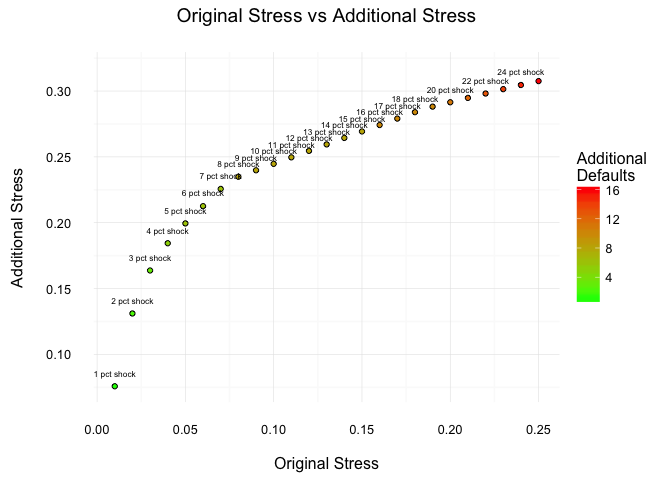
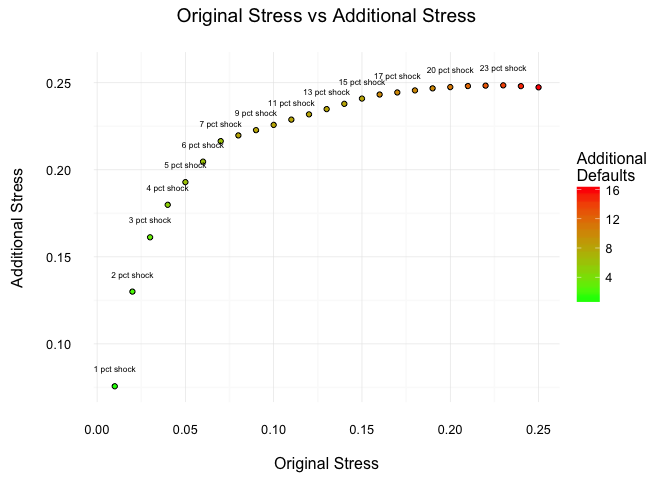
updates readme references

diff --git a/README.md b/README.md
@@ -276,16 +276,16 @@ summary(contdr)
 #> 
 #> Simulation summary (showing 10 of 125 -- decreasing order of additional stress):
 #>  Scenario Original Stress Additional Stress Original Losses Additional Losses Additional Defaults
-#>       b55          0.1102             0.280            58.4             235.8                  18
-#>       b28          0.0638             0.182            63.5              99.3                   9
-#>       b84          0.0236             0.117             7.6              65.7                   3
-#>       b69          0.0133             0.114            13.0              36.6                   3
-#>       b75          0.0099             0.113             9.6              30.5                   3
-#>       b33          0.0243             0.088            27.4              33.6                   3
-#>      b120          0.0099             0.077             8.4              18.1                   3
-#>       b77          0.0067             0.065             9.4               8.9                   2
-#>       b74          0.0161             0.064            14.4              27.9                   4
-#>      b101          0.0070             0.060             9.3              17.1                   3
+#>       b55          0.1102             0.280            58.4             235.8                  17
+#>       b28          0.0638             0.182            63.5              99.3                   8
+#>       b84          0.0236             0.117             7.6              65.7                   2
+#>       b69          0.0133             0.114            13.0              36.6                   2
+#>       b75          0.0099             0.113             9.6              30.5                   2
+#>       b33          0.0243             0.088            27.4              33.6                   2
+#>      b120          0.0099             0.077             8.4              18.1                   2
+#>       b77          0.0067             0.065             9.4               8.9                   1
+#>       b74          0.0161             0.064            14.4              27.9                   3
+#>      b101          0.0070             0.060             9.3              17.1                   2
 ```
 
 What do these results mean?
@@ -321,16 +321,16 @@ summary(contthr)
 #> 
 #> Simulation summary (showing 10 of 125 -- decreasing order of additional stress):
 #>  Scenario Original Stress Additional Stress Original Losses Additional Losses Additional Defaults
-#>       b55          0.1102             0.273            58.4             221.1                  17
-#>       b28          0.0638             0.167            63.5              88.4                   8
-#>       b84          0.0236             0.098             7.6              62.0                   3
-#>       b69          0.0133             0.096            13.0              34.1                   3
-#>       b75          0.0099             0.095             9.6              28.1                   3
-#>      b120          0.0099             0.075             8.4              17.0                   3
-#>       b27          0.0173             0.059            20.5              18.8                   4
-#>       b74          0.0161             0.056            14.4              26.1                   4
-#>      b101          0.0070             0.052             9.3              15.6                   3
-#>       b80          0.0084             0.051             9.2               7.5                   2
+#>       b55          0.1102             0.273            58.4             221.1                  16
+#>       b28          0.0638             0.167            63.5              88.4                   7
+#>       b84          0.0236             0.098             7.6              62.0                   2
+#>       b69          0.0133             0.096            13.0              34.1                   2
+#>       b75          0.0099             0.095             9.6              28.1                   2
+#>      b120          0.0099             0.075             8.4              17.0                   2
+#>       b27          0.0173             0.059            20.5              18.8                   3
+#>       b74          0.0161             0.056            14.4              26.1                   3
+#>      b101          0.0070             0.052             9.3              15.6                   2
+#>       b80          0.0084             0.051             9.2               7.5                   1
 ```
 
 Let's save the results in our `sim_data` along with the other metrics:
@@ -352,10 +352,10 @@ head(sim_data)
 #> 5   b5 0.65294261   0.9153901 4.446595  8.673730      2  14 6.609864e-05 0.003889006  2.945919    0  0.00000
 #> 6   b6 0.60766835   0.3007373 2.252369  4.708805      2   2 6.556680e-05 0.001567357  1.287698    0  0.00000
 #>       DebtRank      cascade
-#> 1 0.0278774515 0.0187702836
+#> 1 0.0278774471 0.0187702836
 #> 2 0.0015547276 0.0014304155
 #> 3 0.0005985364 0.0005137390
-#> 4 0.0074578827 0.0023841317
+#> 4 0.0074578714 0.0023841317
 #> 5 0.0093804082 0.0076966953
 #> 6 0.0009334068 0.0005486289
 ```
@@ -386,14 +386,14 @@ And the cross-correlations between the metrics:
 ``` r
 cor(rankings[-1])
 #>                DebtRank     cascade    degree     eigen       impd       assets liabilities     buffer
-#> DebtRank     1.00000000  0.93257520 0.3852840 0.4778345 0.60635065 -0.068325015 0.844421223  0.4376177
-#> cascade      0.93257520  1.00000000 0.4070260 0.5430477 0.62448228 -0.010841119 0.858208779  0.3953692
-#> degree       0.38528396  0.40702597 1.0000000 0.5332633 0.52451198  0.415204147 0.399596081  0.2552769
-#> eigen        0.47783446  0.54304771 0.5332633 1.0000000 0.49012583  0.441087558 0.512325653  0.1465438
+#> DebtRank     1.00000000  0.93231850 0.3842379 0.4768787 0.60635065 -0.069485591 0.844166766  0.4373012
+#> cascade      0.93231850  1.00000000 0.4070260 0.5430477 0.62448228 -0.010841119 0.858208779  0.3953692
+#> degree       0.38423792  0.40702597 1.0000000 0.5332633 0.52451198  0.415204147 0.399596081  0.2552769
+#> eigen        0.47687869  0.54304771 0.5332633 1.0000000 0.49012583  0.441087558 0.512325653  0.1465438
 #> impd         0.60635065  0.62448228 0.5245120 0.4901258 1.00000000  0.018459808 0.610921083  0.4816576
-#> assets      -0.06832502 -0.01084112 0.4152041 0.4410876 0.01845981  1.000000000 0.004958525 -0.1198280
-#> liabilities  0.84442122  0.85820878 0.3995961 0.5123257 0.61092108  0.004958525 1.000000000  0.3930261
-#> buffer       0.43761772  0.39536923 0.2552769 0.1465438 0.48165762 -0.119827957 0.393026114  1.0000000
+#> assets      -0.06948559 -0.01084112 0.4152041 0.4410876 0.01845981  1.000000000 0.004958525 -0.1198280
+#> liabilities  0.84416677  0.85820878 0.3995961 0.5123257 0.61092108  0.004958525 1.000000000  0.3930261
+#> buffer       0.43730120  0.39536923 0.2552769 0.1465438 0.48165762 -0.119827957 0.393026114  1.0000000
 ```
 
 #### Simulating arbitrary contagion scenarios
@@ -416,16 +416,16 @@ summary(cont)
 #> 
 #> Simulation summary (showing 10 of 25 -- decreasing order of additional stress):
 #>      Scenario Original Stress Additional Stress Original Losses Additional Losses Additional Defaults
-#>  25 pct shock            0.25              0.31             198               191                  16
-#>  24 pct shock            0.24              0.30             190               185                  15
-#>  23 pct shock            0.23              0.30             182               179                  14
-#>  22 pct shock            0.22              0.30             174               173                  13
-#>  21 pct shock            0.21              0.29             166               167                  12
-#>  20 pct shock            0.20              0.29             158               161                  11
-#>  19 pct shock            0.19              0.29             150               155                  10
-#>  18 pct shock            0.18              0.28             142               149                  10
-#>  17 pct shock            0.17              0.28             134               142                  10
-#>  16 pct shock            0.16              0.27             127               136                  10
+#>  23 pct shock            0.23              0.25             182               179                  14
+#>  22 pct shock            0.22              0.25             174               173                  13
+#>  21 pct shock            0.21              0.25             166               167                  12
+#>  24 pct shock            0.24              0.25             190               185                  15
+#>  20 pct shock            0.20              0.25             158               161                  11
+#>  25 pct shock            0.25              0.25             198               191                  16
+#>  19 pct shock            0.19              0.25             150               155                  10
+#>  18 pct shock            0.18              0.25             142               149                  10
+#>  17 pct shock            0.17              0.24             134               142                  10
+#>  16 pct shock            0.16              0.24             127               136                  10
 ```
 
 ``` r
@@ -445,5 +445,9 @@ To be expanded.
 [Anand, K., Craig, B. and G. von Peter (2015). Filling in the blanks: network structure and interbank contagion. Quantitative Finance 15:4, 625-636.](http://www.tandfonline.com/doi/full/10.1080/14697688.2014.968195)
 
 [Bardoscia M, Battiston S, Caccioli F, Caldarelli G (2015) DebtRank: A Microscopic Foundation for Shock Propagation. PLoS ONE 10(6): e0130406. doi: 10.1371/journal.pone.0130406](http://journals.plos.org/plosone/article?id=10.1371%2Fjournal.pone.0130406)
+
+[Silva, T.C.; Souza, S.R.S.; Tabak, B.M. (2015) Monitoring vulnerability and impact diffusion in financial networks. Working Paper 392, Central Bank of Brazil.](http://www.bcb.gov.br/pec/wps/ingl/wps392.pdf)
+
+[Silva, T.C.; Souza, S.R.S.; Tabak, B.M. (2015) Network structure analysis of the Brazilian interbank market . Working Paper 391, Central Bank of Brazil.](http://www.bcb.gov.br/pec/wps/ingl/wps391.pdf)
 
 [Upper, C. and A. Worm (2004). Estimating bilateral exposures in the german interbank market: Is there a danger of contagion? European Economic Review 48, 827-849.](http://www.sciencedirect.com/science/article/pii/S0014292104000145)
